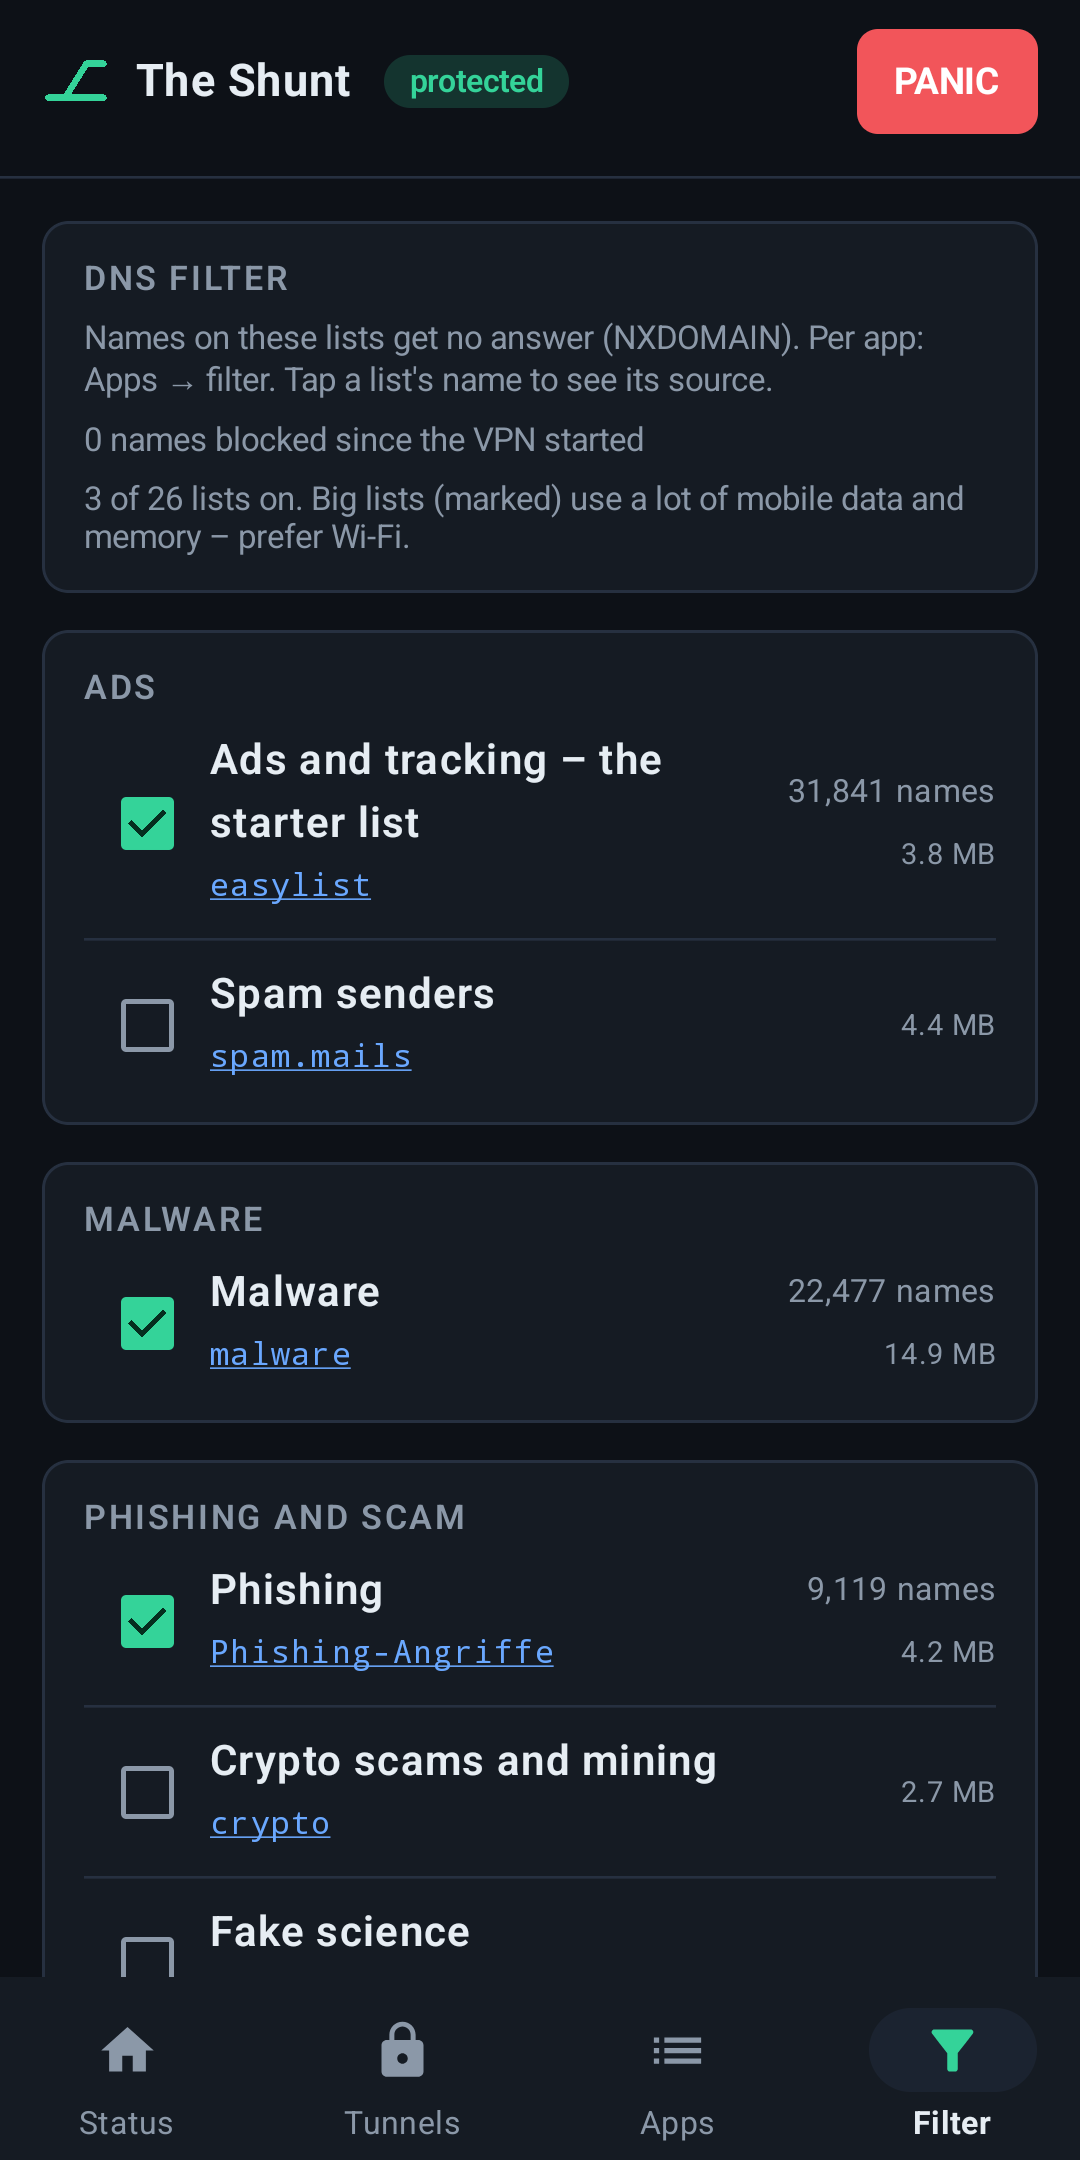
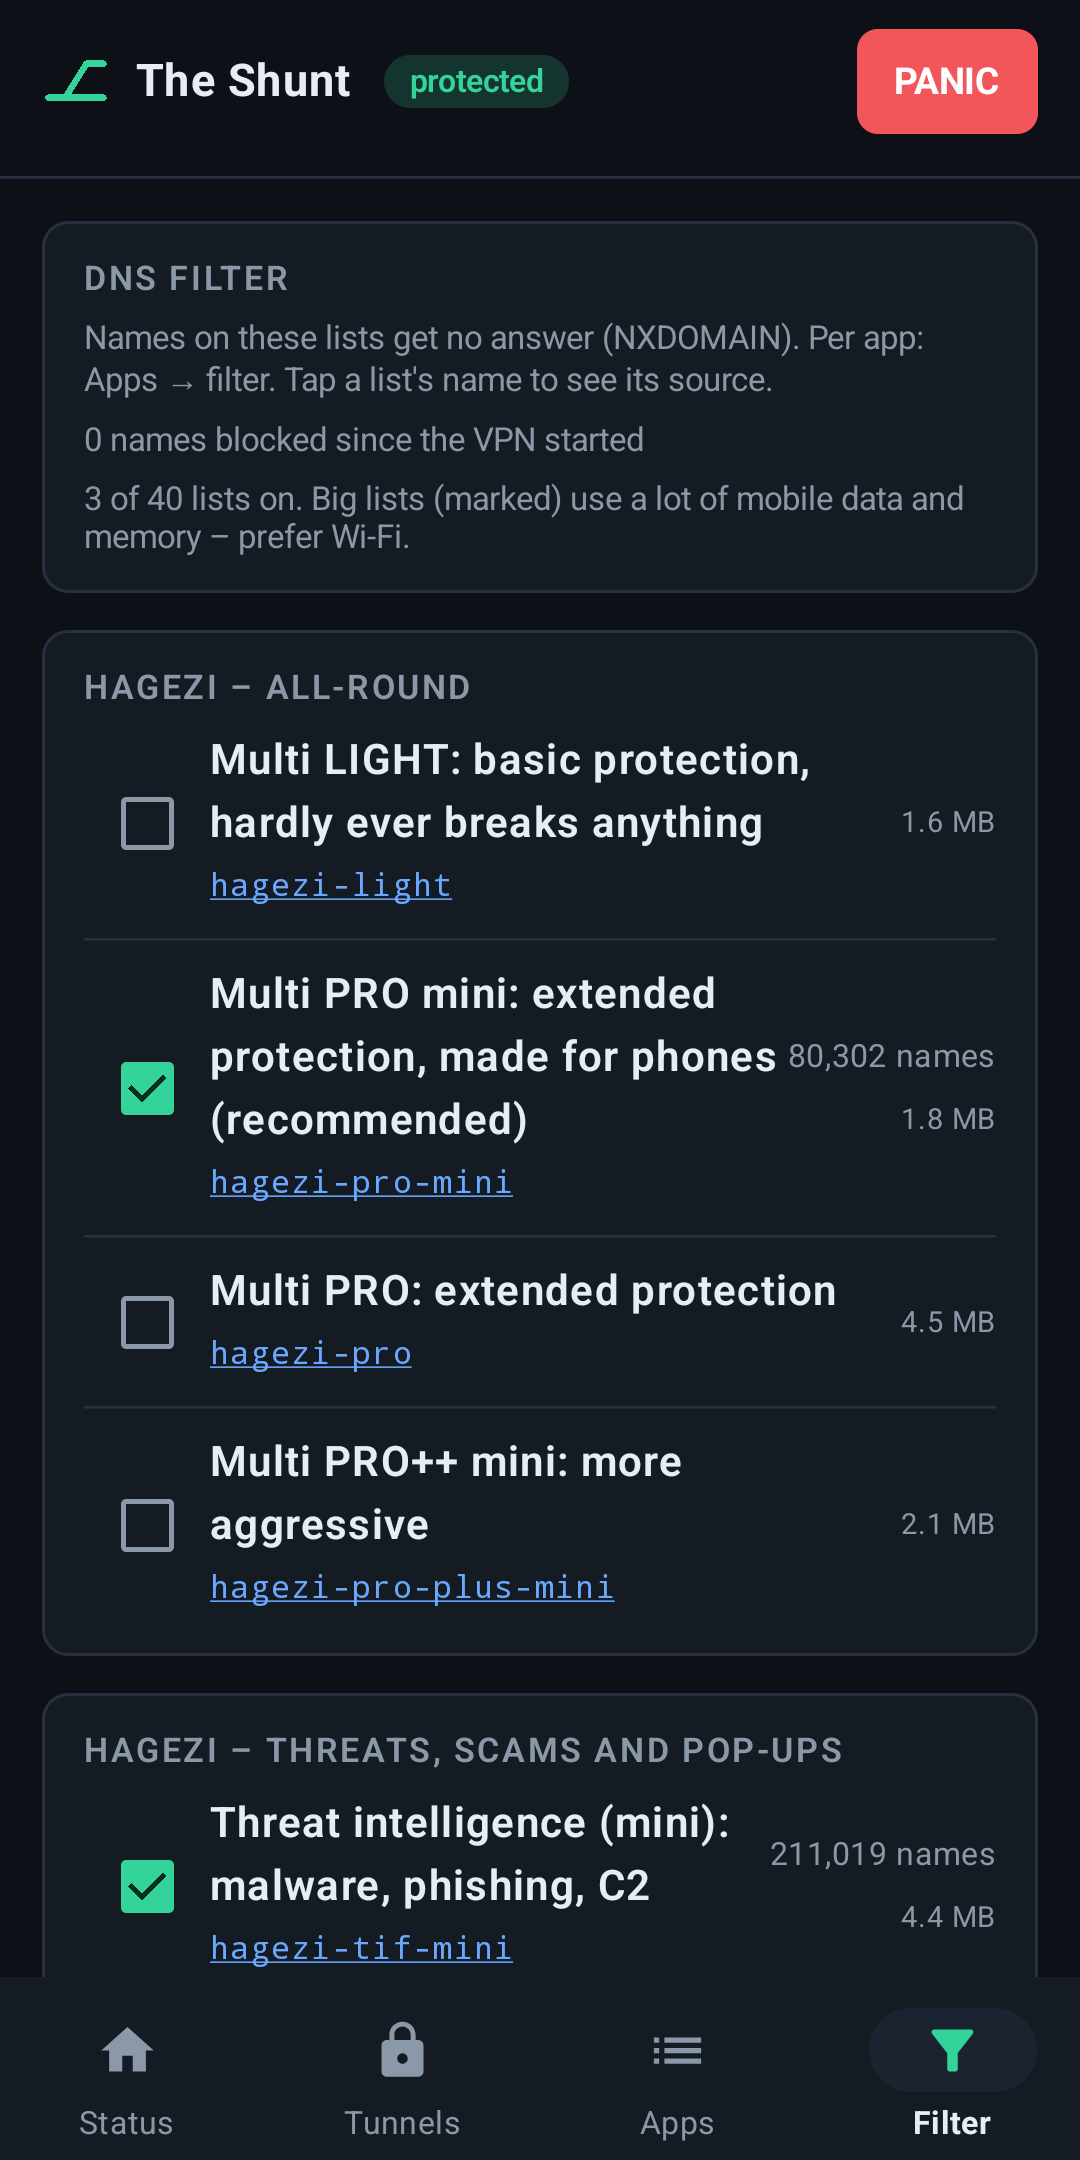
DNS filter: HaGeZi screenshots, texts and mock data

diff --git a/android/app/src/main/java/org/theshunt/app/Blocklists.kt b/android/app/src/main/java/org/theshunt/app/Blocklists.kt
@@ -45,13 +45,13 @@ object Blocklists {
             hagezi("hagezi-popupads", "popupads", "Pop-up ads", 1.0),
         ),
         "HaGeZi – trackers built into devices" to listOf(
-            hagezi("hagezi-native-samsung", "native.samsung", "Samsung", 0.01),
-            hagezi("hagezi-native-xiaomi", "native.xiaomi", "Xiaomi", 0.01),
-            hagezi("hagezi-native-huawei", "native.huawei", "Huawei", 0.01),
-            hagezi("hagezi-native-oppo", "native.oppo-realme", "OPPO and Realme", 0.02),
-            hagezi("hagezi-native-vivo", "native.vivo", "Vivo", 0.01),
-            hagezi("hagezi-native-amazon", "native.amazon", "Amazon", 0.01),
-            hagezi("hagezi-native-tiktok", "native.tiktok", "TikTok fingerprinting", 0.02),
+            hagezi("hagezi-native-samsung", "native.samsung", "Samsung", 0.0),
+            hagezi("hagezi-native-xiaomi", "native.xiaomi", "Xiaomi", 0.0),
+            hagezi("hagezi-native-huawei", "native.huawei", "Huawei", 0.0),
+            hagezi("hagezi-native-oppo", "native.oppo-realme", "OPPO and Realme", 0.0),
+            hagezi("hagezi-native-vivo", "native.vivo", "Vivo", 0.0),
+            hagezi("hagezi-native-amazon", "native.amazon", "Amazon", 0.0),
+            hagezi("hagezi-native-tiktok", "native.tiktok", "TikTok fingerprinting", 0.0),
         ),
         "Ads" to listOf(Entry("easylist", "Ads and tracking – the starter list", 3.8), Entry("spam.mails", "Spam senders", 4.4)),
         "Malware" to listOf(Entry("malware", "Malware", 14.9)),

diff --git a/internal/ui/static/filter.js b/internal/ui/static/filter.js
@@ -3,10 +3,11 @@
 // Edits the same config model as the Configure page (same save bar).
 
 // HaGeZi's lists (https://github.com/hagezi/dns-blocklists, GPL-3.0, "hagezi:<file>"):
-// Light to Ultimate build on each other, so one of them per level is enough;
+// Light to Ultimate build on each other (the defaults still put a bigger one into
+// each higher level, so the lower levels stay small);
 // approximate size in MB (adblock format).
 const HAGEZI_GROUPS = [
-  ["HaGeZi – all-round (Light … Ultimate build on each other: use one of them)", [
+  ["HaGeZi – all-round (each contains the one before: a bigger one makes the smaller ones unnecessary)", [
     ["hagezi:light", "Multi LIGHT: basic protection, hardly ever breaks anything", 1.6],
     ["hagezi:multi", "Multi NORMAL: all-round protection", 3.9],
     ["hagezi:pro", "Multi PRO: extended protection (recommended)", 4.5],

diff --git a/test/mockd/main.go b/test/mockd/main.go
@@ -178,7 +178,11 @@ func status(cfg *config.Config) api.Status {
 				levels = append(levels, lv)
 			}
 		}
-		lists = append(lists, blocklist.Status{Name: ref, URL: f.ListURL(ref), Levels: levels, Entries: 3000 + (i*7919)%140000, Updated: now.Add(-time.Duration(3+i%7) * time.Hour)})
+		n := 3000 + (i*7919)%140000
+		if known, ok := map[string]int{"hagezi:light": 67831, "hagezi:pro": 206567, "hagezi:pro.plus": 220466, "hagezi:tif.mini": 211020}[ref]; ok {
+			n = known
+		}
+		lists = append(lists, blocklist.Status{Name: ref, URL: f.ListURL(ref), Levels: levels, Entries: n, Updated: now.Add(-time.Duration(3+i%7) * time.Hour)})
 	}
 	rec := func(ago time.Duration, name, level, list, route string) dnsproxy.Blocked {
 		return dnsproxy.Blocked{Time: now.Add(-ago), Name: name, Level: level, List: list, Route: route}
@@ -218,8 +222,8 @@ func status(cfg *config.Config) api.Status {
 			Routes:  map[string]string{"direct": "normal", "tunnel:work": "normal", "tunnel:home": "paranoid", "tunnel:nl": "normal"},
 			Lists:   lists,
 			Stats: dnsproxy.FilterStats{Blocked: 4182, ByLevel: map[string]uint64{"normal": 3790, "paranoid": 392}, Recent: []dnsproxy.Blocked{
-				rec(40*time.Second, "ads.tracker.example", "normal", "easylist", "tunnel:work"),
-				rec(2*time.Minute, "metrics.example.net", "normal", "easylist", "tunnel:nl"),
+				rec(40*time.Second, "ads.tracker.example", "normal", "hagezi:pro", "tunnel:work"),
+				rec(2*time.Minute, "metrics.example.net", "normal", "hagezi:pro", "tunnel:nl"),
 				rec(7*time.Minute, "pixel.shop.example", "paranoid", "crypto", "tunnel:home"),
 				rec(11*time.Minute, "cdn.malware.example", "normal", "malware", "direct"),
 			}},

diff --git a/README.md b/README.md
@@ -380,8 +380,10 @@ projects – many thanks to both for building and maintaining them:
 
 - **[HaGeZi's DNS blocklists](https://github.com/hagezi/dns-blocklists)** (GPL-3.0), written
   `hagezi:<file>`, e.g. `hagezi:pro`. Shunt uses the adblock format, where `||name^` also
-  covers the subdomains. Multi **LIGHT, NORMAL, PRO, PRO++ and ULTIMATE build on each other**:
-  one of them per level is enough. The *threat intelligence* lists (`hagezi:tif.mini`,
+  covers the subdomains. Multi **LIGHT, NORMAL, PRO, PRO++ and ULTIMATE build on each other**
+  (each contains the one before), so a bigger one makes the smaller ones unnecessary; the
+  defaults still use a bigger one per higher level, which keeps `low` small and costs only a
+  little overlap. The *threat intelligence* lists (`hagezi:tif.mini`,
   `tif.medium`; the full `tif` has about 2 million names and is too big for most machines),
   `hagezi:fake` and `hagezi:popupads` come on top.
 - **[RPiList/specials](https://github.com/RPiList/specials/tree/master/Blocklisten)**: German
